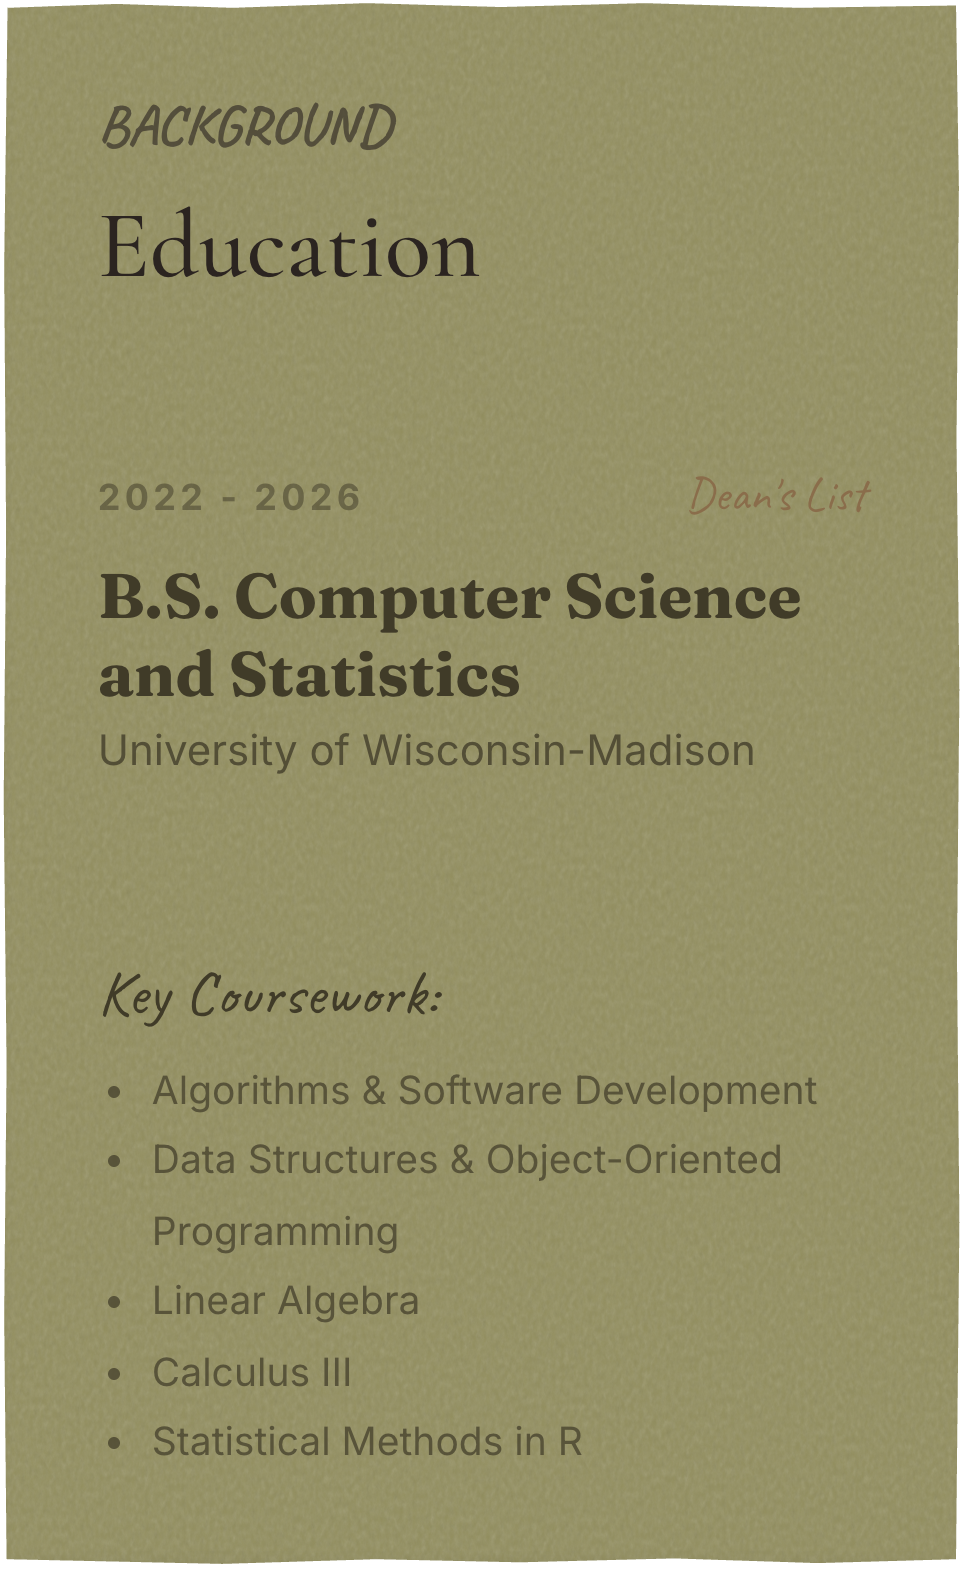
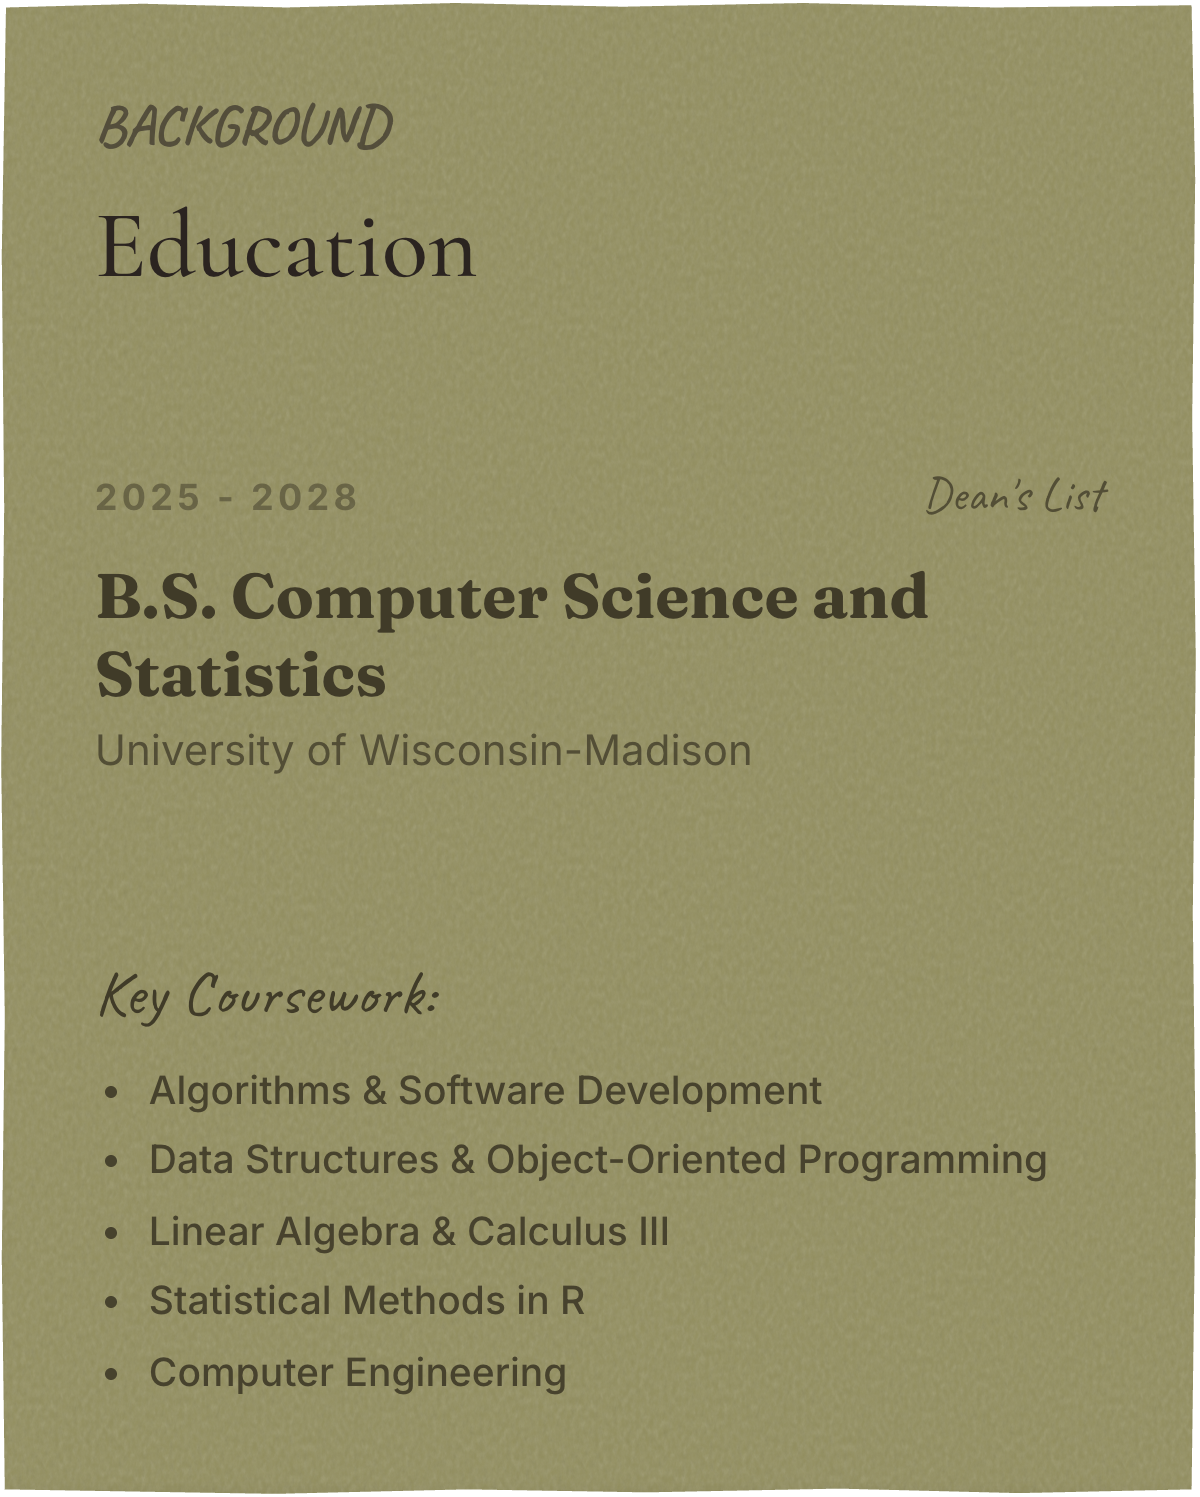
About Me: update Education, Hobbies and Activities post-its from resume
Education: 2025 - 2028, Dean's List, current coursework, darker list text;
re-rendered at the post-it's aspect ratio so it no longer stretches.
Hobbies: add piano.
Activities: research assistant, WAISI fellow, Code To Connect, Women and
Computing Machines, and Social Tennis in one evenly spaced list.

diff --git a/src/personalwebsite.jsx b/src/personalwebsite.jsx
@@ -685,20 +685,20 @@ function AboutSection() {
                             </div>
                             <div className="about-paper-section">
                                 <div style={{ display: "flex", justifyContent: "space-between", alignItems: "baseline", gap: 16, marginBottom: 10 }}>
-                                    <span style={{ fontFamily: "var(--font-ui)", fontWeight: 700, fontSize: 12, textTransform: "uppercase", letterSpacing: "0.12em", opacity: 0.52 }}>2022 - 2026</span>
-                                    <span style={{ fontFamily: "var(--font-hand)", fontSize: 16, color: ABOUT.twine }}>Dean&apos;s List</span>
+                                    <span style={{ fontFamily: "var(--font-ui)", fontWeight: 700, fontSize: 12, textTransform: "uppercase", letterSpacing: "0.12em", opacity: 0.52 }}>2025 - 2028</span>
+                                    <span style={{ fontFamily: "var(--font-hand)", fontSize: 16, opacity: 0.78 }}>Dean&apos;s List</span>
                                 </div>
                                 <p style={{ fontFamily: "var(--font-display)", fontSize: 21, fontWeight: 700, margin: "0 0 4px" }}>B.S. Computer Science and Statistics</p>
                                 <p style={{ fontFamily: "var(--font-ui)", fontSize: 14, opacity: 0.78, margin: 0 }}>University of Wisconsin-Madison</p>
                             </div>
                             <div className="about-paper-section">
                                 <p style={{ fontFamily: "var(--font-hand)", fontSize: 21, margin: "0 0 8px" }}>Key Coursework:</p>
-                                <ul style={{ fontFamily: "var(--font-ui)", fontSize: 13, lineHeight: 1.8, opacity: 0.72, paddingLeft: 18, margin: 0 }}>
+                                <ul style={{ fontFamily: "var(--font-ui)", fontSize: 13, fontWeight: 500, lineHeight: 1.8, opacity: 0.92, paddingLeft: 18, margin: 0 }}>
                                     <li>Algorithms & Software Development</li>
                                     <li>Data Structures & Object-Oriented Programming</li>
-                                    <li>Linear Algebra</li>
-                                    <li>Calculus III</li>
+                                    <li>Linear Algebra & Calculus III</li>
                                     <li>Statistical Methods in R</li>
+                                    <li>Computer Engineering</li>
                                 </ul>
                             </div>
                         </article>
@@ -709,7 +709,7 @@ function AboutSection() {
                             <div className="about-paper-section about-paper-heading">
                                 <span style={{ fontFamily: "var(--font-hand)", fontSize: 19, fontWeight: 700, color: ABOUT.scrapInk, opacity: 0.62, textTransform: "uppercase", marginBottom: 8, display: "block" }}>Vibe</span>
                                 <h3 style={{ fontFamily: "var(--font-display)", fontSize: 32, fontWeight: 700, color: ABOUT.scrapInk, margin: 0 }}>Hobbies</h3>
-                                <p className="hobbies-paper-copy">Photography, synth pop &amp; RnB, watercolor painting, scenic bike rides, and making press-on nails.</p>
+                                <p className="hobbies-paper-copy">Photography, synth pop &amp; RnB, piano, watercolor painting, scenic bike rides, and making press-on nails.</p>
                             </div>
                         </article>
                     </AboutStack>
@@ -723,21 +723,29 @@ function AboutSection() {
                             <div className="about-paper-section">
                                 <div style={{ display: "grid", gap: 14 }}>
                                     <div>
-                                        <span style={{ fontFamily: "var(--font-ui)", fontWeight: 700, fontSize: 11, textTransform: "uppercase", letterSpacing: "0.12em", opacity: 0.52 }}>August 2026 - Now</span>
+                                        <span style={{ fontFamily: "var(--font-ui)", fontWeight: 700, fontSize: 11, textTransform: "uppercase", letterSpacing: "0.12em", opacity: 0.52 }}>September 2026 - Now</span>
                                         <p style={{ fontFamily: "var(--font-display)", fontSize: 19, fontWeight: 700, margin: "3px 0 0" }}>Undergraduate Research Assistant</p>
                                     </div>
                                     <div>
-                                        <span style={{ fontFamily: "var(--font-ui)", fontWeight: 700, fontSize: 11, textTransform: "uppercase", letterSpacing: "0.12em", opacity: 0.52 }}>September 2026 - Now</span>
-                                        <p style={{ fontFamily: "var(--font-display)", fontSize: 19, fontWeight: 700, margin: "3px 0 0" }}>Code-To-Connect</p>
+                                        <span style={{ fontFamily: "var(--font-ui)", fontWeight: 700, fontSize: 11, textTransform: "uppercase", letterSpacing: "0.12em", opacity: 0.52 }}>October 2026 - Now</span>
+                                        <p style={{ fontFamily: "var(--font-display)", fontSize: 19, fontWeight: 700, margin: "3px 0 0" }}>AI Safety Fellow, WAISI</p>
+                                    </div>
+                                    <div>
+                                        <span style={{ fontFamily: "var(--font-ui)", fontWeight: 700, fontSize: 11, textTransform: "uppercase", letterSpacing: "0.12em", opacity: 0.52 }}>September 2025 - Now</span>
+                                        <p style={{ fontFamily: "var(--font-display)", fontSize: 19, fontWeight: 700, margin: "3px 0 0" }}>Education Chair, Code To Connect</p>
+                                    </div>
+                                    <div>
+                                        <span style={{ fontFamily: "var(--font-ui)", fontWeight: 700, fontSize: 11, textTransform: "uppercase", letterSpacing: "0.12em", opacity: 0.52 }}>September 2025 - Now</span>
+                                        <p style={{ fontFamily: "var(--font-display)", fontSize: 19, fontWeight: 700, margin: "3px 0 0" }}>Women and Computing Machines</p>
+                                    </div>
+                                    <div>
+                                        <span style={{ fontFamily: "var(--font-ui)", fontWeight: 700, fontSize: 11, textTransform: "uppercase", letterSpacing: "0.12em", opacity: 0.52 }}>September 2025 - Now</span>
+                                        <p style={{ fontFamily: "var(--font-display)", fontSize: 19, fontWeight: 700, margin: "3px 0 0" }}>Social Tennis</p>
                                     </div>
                                 </div>
                             </div>
-                            <div className="about-paper-section">
+                            <div className="about-paper-section" style={{ paddingTop: 0 }}>
                                 <div>
-                                    <span style={{ fontFamily: "var(--font-ui)", fontWeight: 700, fontSize: 11, textTransform: "uppercase", letterSpacing: "0.12em", opacity: 0.52 }}>2024 - Now</span>
-                                    <p style={{ fontFamily: "var(--font-display)", fontSize: 19, fontWeight: 700, margin: "3px 0 0" }}>Design Club</p>
-                                </div>
-                                <div style={{ marginTop: 18 }}>
                                     <p style={{ fontFamily: "var(--font-hand)", fontSize: 17, fontStyle: "italic", opacity: 0.82, margin: 0 }}>&quot;Making cool things with cool people.&quot;</p>
                                 </div>
                             </div>
